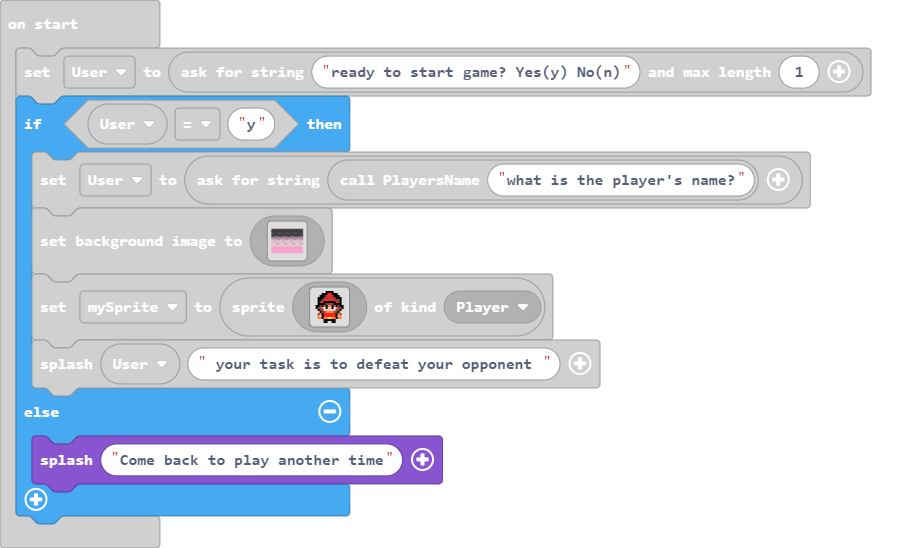
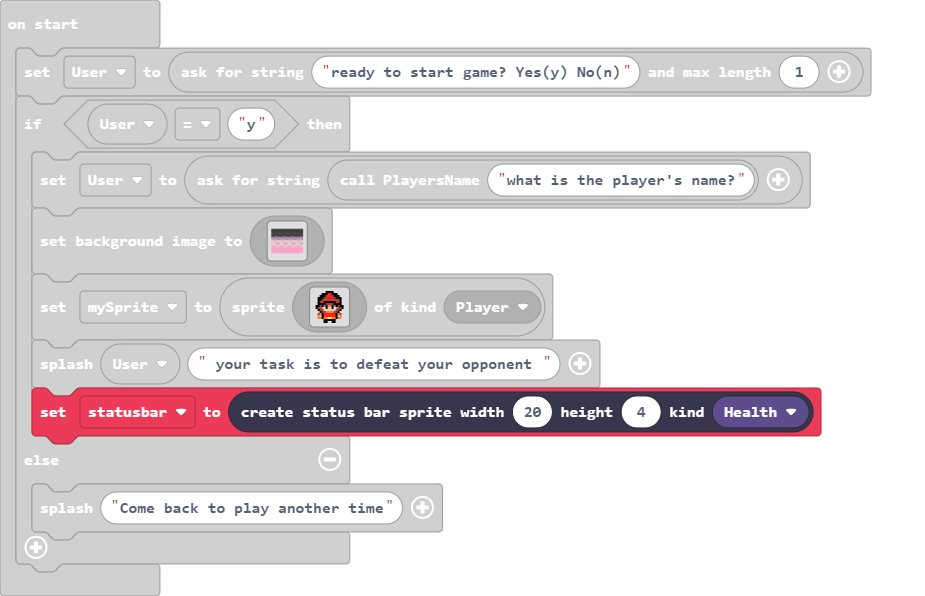
Update main.blocks, main.ts

diff --git a/main.ts b/main.ts
@@ -1,6 +1,7 @@
 function PlayersName (first: string) {
     return first
 }
+let statusbar: StatusBarSprite = null
 let mySprite: Sprite = null
 let User = game.askForString("ready to start game? Yes(y) No(n)", 1)
 if (User == "y") {
@@ -146,6 +147,7 @@ if (User == "y") {
         . . . . . f f . . f f . . . . . 
         `, SpriteKind.Player)
     game.splash(User, " your task is to defeat your opponent ")
+    statusbar = statusbars.create(20, 4, StatusBarKind.Health)
 } else {
     game.splash("Come back to play another time")
 }
